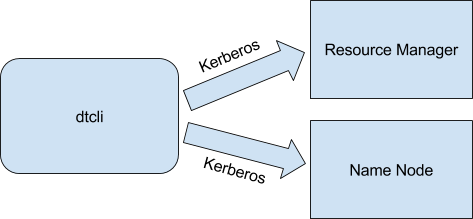
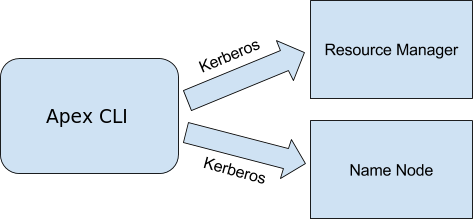
APEXCORE-340 Naming change of apex script. Changed following (dt->apex): 1. Script name changed to apex. 2. Class name changed to ApexCli from DTCli. Similar for test class. 3. Changed console prompt to "apex>" from "dt>" 4. Changed Welcome message to "Apex CLI ..." from "DT CLI ..." 5. Updated docu

Changed region(s): [[0.0888, 0.4932, 0.2664, 0.5753]]

diff --git a/engine/src/test/java/com/datatorrent/stram/cli/ApexCliTest.java b/engine/src/test/java/com/datatorrent/stram/cli/ApexCliTest.java
@@ -40,7 +40,7 @@ import static com.datatorrent.stram.support.StramTestSupport.setEnv;
 /**
  *
  */
-public class DTCliTest
+public class ApexCliTest
 {
 
   // file basename for the created jar
@@ -56,7 +56,7 @@ public class DTCliTest
   private static AppPackage ap;
   private static ConfigPackage cp;
   static TemporaryFolder testFolder = new TemporaryFolder();
-  static DTCli cli = new DTCli();
+  static ApexCli cli = new ApexCli();
 
   static Map<String, String> env = new HashMap<String, String>();
   static String userHome;
@@ -103,7 +103,8 @@ public class DTCliTest
   public void testLaunchAppPackagePropertyPrecedence() throws Exception
   {
     // set launch command options
-    DTCli.LaunchCommandLineInfo commandLineInfo = DTCli.getLaunchCommandLineInfo(new String[]{"-D", "dt.test.1=launch-define", "-apconf", "my-app-conf1.xml", "-conf", "src/test/resources/testAppPackage/local-conf.xml"});
+    ApexCli.LaunchCommandLineInfo commandLineInfo = ApexCli
+        .getLaunchCommandLineInfo(new String[]{"-D", "dt.test.1=launch-define", "-apconf", "my-app-conf1.xml", "-conf", "src/test/resources/testAppPackage/local-conf.xml"});
     // process and look at launch config
 
     DTConfiguration props = cli.getLaunchAppPackageProperties(ap, null, commandLineInfo, null);
@@ -125,9 +126,10 @@ public class DTCliTest
   @Test
   public void testLaunchAppPackageParametersWithConfigPackage() throws Exception
   {
-    DTCli.LaunchCommandLineInfo commandLineInfo = DTCli.getLaunchCommandLineInfo(new String[]{"-exactMatch", "-conf", configFile.getAbsolutePath(), appFile.getAbsolutePath(), "MyFirstApplication"});
+    ApexCli.LaunchCommandLineInfo commandLineInfo = ApexCli
+        .getLaunchCommandLineInfo(new String[]{"-exactMatch", "-conf", configFile.getAbsolutePath(), appFile.getAbsolutePath(), "MyFirstApplication"});
     String[] args = cli.getLaunchAppPackageArgs(ap, cp, commandLineInfo, null);
-    commandLineInfo = DTCli.getLaunchCommandLineInfo(args);
+    commandLineInfo = ApexCli.getLaunchCommandLineInfo(args);
     StringBuilder sb = new StringBuilder();
     for (String f : ap.getClassPath()) {
       if (sb.length() != 0) {
@@ -159,7 +161,8 @@ public class DTCliTest
   public void testLaunchAppPackagePrecedenceWithConfigPackage() throws Exception
   {
     // set launch command options
-    DTCli.LaunchCommandLineInfo commandLineInfo = DTCli.getLaunchCommandLineInfo(new String[]{"-D", "dt.test.1=launch-define", "-apconf", "my-app-conf1.xml", "-conf", configFile.getAbsolutePath()});
+    ApexCli.LaunchCommandLineInfo commandLineInfo = ApexCli
+        .getLaunchCommandLineInfo(new String[]{"-D", "dt.test.1=launch-define", "-apconf", "my-app-conf1.xml", "-conf", configFile.getAbsolutePath()});
     // process and look at launch config
 
     DTConfiguration props = cli.getLaunchAppPackageProperties(ap, cp, commandLineInfo, null);

diff --git a/engine/src/main/java/com/datatorrent/stram/cli/ApexCli.java b/engine/src/main/java/com/datatorrent/stram/cli/ApexCli.java
@@ -148,9 +148,9 @@ import sun.misc.SignalHandler;
  * @since 0.3.2
  */
 @SuppressWarnings("UseOfSystemOutOrSystemErr")
-public class DTCli
+public class ApexCli
 {
-  private static final Logger LOG = LoggerFactory.getLogger(DTCli.class);
+  private static final Logger LOG = LoggerFactory.getLogger(ApexCli.class);
   private Configuration conf;
   private FileSystem fs;
   private StramAgent stramAgent;
@@ -576,7 +576,7 @@ public class DTCli
 
   }
 
-  DTCli()
+  ApexCli()
   {
     //
     // Global command specification starts here
@@ -1050,7 +1050,7 @@ public class DTCli
       }
       if (cmd.hasOption("h")) {
         HelpFormatter formatter = new HelpFormatter();
-        formatter.printHelp(DTCli.class.getSimpleName(), options);
+        formatter.printHelp(ApexCli.class.getSimpleName(), options);
         System.exit(0);
       }
       if (cmd.hasOption("kp")) {
@@ -1094,7 +1094,7 @@ public class DTCli
 
     for (org.apache.log4j.Logger logger : new org.apache.log4j.Logger[]{
         org.apache.log4j.Logger.getRootLogger(),
-        org.apache.log4j.Logger.getLogger(DTCli.class)
+        org.apache.log4j.Logger.getLogger(ApexCli.class)
     }) {
       @SuppressWarnings("unchecked")
       Enumeration<Appender> allAppenders = logger.getAllAppenders();
@@ -1492,7 +1492,7 @@ public class DTCli
   private void printWelcomeMessage()
   {
     VersionInfo v = VersionInfo.APEX_VERSION;
-    System.out.println("DT CLI " + v.getVersion() + " " + v.getDate() + " " + v.getRevision());
+    System.out.println("Apex CLI " + v.getVersion() + " " + v.getDate() + " " + v.getRevision());
   }
 
   private void printHelp(String command, CommandSpec commandSpec, PrintStream os)
@@ -1561,7 +1561,7 @@ public class DTCli
         if (changingLogicalPlan) {
           prompt = "logical-plan-change";
         } else {
-          prompt = "dt";
+          prompt = "apex";
         }
         if (currentApp != null) {
           prompt += " (";
@@ -3925,7 +3925,7 @@ public class DTCli
 
   public static void main(final String[] args) throws Exception
   {
-    final DTCli shell = new DTCli();
+    final ApexCli shell = new ApexCli();
     shell.preImpersonationInit(args);
     String hadoopUserName = System.getenv("HADOOP_USER_NAME");
     if (UserGroupInformation.isSecurityEnabled()

diff --git a/engine/src/main/java/com/datatorrent/stram/cli/package-info.java b/engine/src/main/java/com/datatorrent/stram/cli/package-info.java
@@ -24,7 +24,7 @@
  * via one single point. All webservice calls for streaming data go through to the stram.<br>
  * <br>
  * The com.datatorrent.stram.cli package consists of<br>
- * <b>{@link com.datatorrent.stram.cli.DTCli}</b>: Provides command line interface for a streaming application on hadoop (yarn)<br>
+ * <b>{@link com.datatorrent.stram.cli.ApexCli}</b>: Provides command line interface for a streaming application on hadoop (yarn)<br>
  * <br>
  *
  */

diff --git a/docs/security.md b/docs/security.md
@@ -41,7 +41,7 @@ hdfs-site.xml and can be specified as follows for example for a lifetime of 1 ye
 ###CLI Configuration
 
 The Apex command line interface is used to launch
-applications along with performing various other operations and administrative tasks on the applications.  When Kerberos security is enabled in Hadoop, a Kerberos ticket granting ticket (TGT) or the Kerberos credentials of the user are needed by the CLI program `dtcli` to authenticate with Hadoop for any operation. Kerberos credentials are composed of a principal and either a _keytab_ or a password. For security and operational reasons only keytabs are supported in Hadoop and by extension in Apex platform. When user credentials are specified, all operations including launching
+applications along with performing various other operations and administrative tasks on the applications.  When Kerberos security is enabled in Hadoop, a Kerberos ticket granting ticket (TGT) or the Kerberos credentials of the user are needed by the CLI program `apex` to authenticate with Hadoop for any operation. Kerberos credentials are composed of a principal and either a _keytab_ or a password. For security and operational reasons only keytabs are supported in Hadoop and by extension in Apex platform. When user credentials are specified, all operations including launching
 application are performed as that user.
 
 #### Using kinit
@@ -50,11 +50,11 @@ A Kerberos ticket granting ticket (TGT) can be obtained by using the Kerberos co
 
     kinit -k -t path-tokeytab-file kerberos-principal
 
-If this command is successful, the TGT is obtained, cached and available for other programs. The CLI program `dtcli` can then be started to launch applications and perform other operations.
+If this command is successful, the TGT is obtained, cached and available for other programs. The CLI program `apex` can then be started to launch applications and perform other operations.
 
 #### Using Kerberos credentials
 
-The CLI program `dtcli` can also use the Kerberos credentials directly without requiring a TGT to be obtained separately. This can be useful in batch mode where `dtcli` is not launched manually and also in scenarios where running another program like `kinit` is not feasible.
+The CLI program `apex` can also use the Kerberos credentials directly without requiring a TGT to be obtained separately. This can be useful in batch mode where `apex` is not launched manually and also in scenarios where running another program like `kinit` is not feasible.
 
 The credentials can be specified in the `dt-site.xml` configuration file. If only a single user is launching applications, the global `dt-site.xml` configuration file in the installation folder can be used. In a multi-user environment the users can use the `dt-site.xml` file in their
 home directory. The location of this file will be `$HOME/.dt/dt-site.xml`. If this file does not exist, the user can create a new one.
@@ -83,14 +83,14 @@ In this section we will see how security works for applications built on Apex. W
 
 ###Application Launch
 
-To launch applications in Apache Apex the command line client dtcli can be used. The application artifacts such as binaries and properties are supplied as an application package. The client, during the various steps involved to launch the application needs to communicate with both the Resource Manager and the Name Node. The Resource Manager communication involves the client asking for new resources to run the application master and start the application launch process. The steps along with sample Java code are described in Writing YARN Applications. The Name Node communication includes the application artifacts being copied to HDFS so that they are available across the cluster for launching the different application containers.
+To launch applications in Apache Apex the command line client `apex` can be used. The application artifacts such as binaries and properties are supplied as an application package. The client, during the various steps involved to launch the application needs to communicate with both the Resource Manager and the Name Node. The Resource Manager communication involves the client asking for new resources to run the application master and start the application launch process. The steps along with sample Java code are described in Writing YARN Applications. The Name Node communication includes the application artifacts being copied to HDFS so that they are available across the cluster for launching the different application containers.
 
 In secure mode, the communications with both Resource Manager and Name Node requires authentication and the mechanism is Kerberos. Below is an illustration showing this.
 
-![](images/security/image02.png)		
+![](images/security/image02.png)
 
 
-The client dtcli supports Kerberos authentication and will automatically enable it in a secure environment. To authenticate, some Kerberos configuration namely the Kerberos credentials, are needed by the client. There are two parameters, the Kerberos principal and keytab to use for the client. These can be specified in the dt-site.xml configuration file. The properties are shown below
+The client `apex` supports Kerberos authentication and will automatically enable it in a secure environment. To authenticate, some Kerberos configuration namely the Kerberos credentials, are needed by the client. There are two parameters, the Kerberos principal and keytab to use for the client. These can be specified in the dt-site.xml configuration file. The properties are shown below
 
         <property>
                 <name>dt.authentication.principal</name>
@@ -116,13 +116,13 @@ When the application is completely up and running, there are different component
 
 Every Apache Apex application has a master process akin to any YARN application. In our case it is called STRAM (Streaming Application Master). It is a master process that runs in its own container and manages the different distributed components of the application. Among other tasks it requests Resource Manager for new resources as they are needed and gives back resources that are no longer needed. STRAM also needs to communicate with Name Node from time-to-time to access the persistent HDFS file system. 
 
-In secure mode, STRAM has to authenticate with both Resource Manager and Name Node before it can send any requests and this is achieved using Delegation Tokens. Since STRAM runs as a managed application master, it runs in a Hadoop container. This container could have been allocated on any node based on what resources were available. Since there is no fixed node where STRAM runs, it does not have Kerberos credentials. Unlike launch client dtcli, it cannot authenticate with Hadoop services Resource Manager and Name Node using Kerberos. Instead, Delegation Tokens are used for authentication.
+In secure mode, STRAM has to authenticate with both Resource Manager and Name Node before it can send any requests and this is achieved using Delegation Tokens. Since STRAM runs as a managed application master, it runs in a Hadoop container. This container could have been allocated on any node based on what resources were available. Since there is no fixed node where STRAM runs, it does not have Kerberos credentials. Unlike launch client `apex`, it cannot authenticate with Hadoop services Resource Manager and Name Node using Kerberos. Instead, Delegation Tokens are used for authentication.
 
 #####Delegation Tokens
 
-Delegation tokens are tokens that are dynamically issued by the source and clients use them to authenticate with the source. The source stores the delegation tokens it has issued in a cache and checks the delegation token sent by a client against the cache. If a match is found, the authentication is successful else it fails. This is the second mode of authentication in secure Hadoop after Kerberos. More details can be found in the Hadoop security design document. In this case the delegation tokens are issued by Resource Manager and Name Node. STRAM would use these tokens to authenticate with them. But how does it get them in the first place? This is where the launch client dtcli comes in.
+Delegation tokens are tokens that are dynamically issued by the source and clients use them to authenticate with the source. The source stores the delegation tokens it has issued in a cache and checks the delegation token sent by a client against the cache. If a match is found, the authentication is successful else it fails. This is the second mode of authentication in secure Hadoop after Kerberos. More details can be found in the Hadoop security design document. In this case the delegation tokens are issued by Resource Manager and Name Node. STRAM would use these tokens to authenticate with them. But how does it get them in the first place? This is where the launch client `apex` comes in.
 
-The client dtcli, since it possesses Kerberos credentials as explained in the Application Launch section, is able to authenticate with Resource Manager and Name Node using Kerberos. It then requests for delegation tokens over the Kerberos authenticated connection. The servers return the delegation tokens in the response payload. The client in requesting the resource manager for the start of the application master container for STRAM seeds it with these tokens so that when STRAM starts it has these tokens. It can then use these tokens to authenticate with the Hadoop services.
+The client `apex`, since it possesses Kerberos credentials as explained in the Application Launch section, is able to authenticate with Resource Manager and Name Node using Kerberos. It then requests for delegation tokens over the Kerberos authenticated connection. The servers return the delegation tokens in the response payload. The client in requesting the resource manager for the start of the application master container for STRAM seeds it with these tokens so that when STRAM starts it has these tokens. It can then use these tokens to authenticate with the Hadoop services.
 
 ####Streaming Container
 

diff --git a/docs/application_development.md b/docs/application_development.md
@@ -612,25 +612,25 @@ local mode (in IDE or from command line) or on a Hadoop cluster.
 
 
 
-To start the dtCli run
+To start the Apex CLI run
 
-    <INSTALL_DIR>/bin/dtcli
+    <INSTALL_DIR>/bin/apex
 
 The command line prompt appears.  To start the application in local mode (the actual version number in the file name may differ)
 
-    dt> launch -local <INSTALL_DIR>/yahoo-finance-demo-3.2.0-SNAPSHOT.apa
+    apex> launch -local <INSTALL_DIR>/yahoo-finance-demo-3.2.0-SNAPSHOT.apa
 
 To terminate the application in local mode, enter Ctrl-C
 
 Tu run the application on the Hadoop cluster (the actual version
 number in the file name may differ)
 
-    dt> launch <INSTALL_DIR>/yahoo-finance-demo-3.2.0-SNAPSHOT.apa
+    apex> launch <INSTALL_DIR>/yahoo-finance-demo-3.2.0-SNAPSHOT.apa
 
 
-To stop the application running in Hadoop, terminate it in the dtCli:
+To stop the application running in Hadoop, terminate it in the Apex CLI:
 
-    dt> kill-app
+    apex> kill-app
 
 
 
@@ -1079,7 +1079,7 @@ libraries, version of the platform etc.)
 
 #### Running an application
 
-The platform provides a commandline tool called dtcli for managing applications (launching,
+The platform provides a commandline tool called *apex* for managing applications (launching,
 killing, viewing, etc.). This tool was already discussed above briefly
 in the section entitled Running the Test Application. It will introspect
 the jar file specified with the launch command for applications (classes
@@ -1089,7 +1089,7 @@ application package to the cluster.
 
 
 
-Dtcli can run the application in local mode (i.e. outside a
+Apex CLI can run the application in local mode (i.e. outside a
 cluster). It is recommended to first run the application in local mode
 in the development environment before launching on the Hadoop cluster.
 This way some of the external system integration and correct
@@ -1098,7 +1098,7 @@ environment before testing distributed mode.
 
 
 
-For more details on CLI please refer to the [dtCli Guide](dtcli.md).
+For more details on CLI please refer to the [Apex CLI Guide](apex_cli.md).
 
 Application API
 ----------------------------
@@ -1332,7 +1332,7 @@ an id. This id along with the Hadoop container name uniquely identifies
 the operator in the execution plan of the DAG. The logical names and the
 physical names are required for web service support. Operators can be
 accessed via both names. These same names are used while interacting
-with  dtcli to access an operator.
+with apex cli to access an operator.
 Ideally these names should be self-descriptive. For example in Figure 1,
 the node named “Daily volume” has a physical identifier of 2.
 

diff --git a/docs/apex_cli.md b/docs/apex_cli.md
@@ -1,7 +1,7 @@
 Apache Apex Command Line Interface
 ================================================================================
 
-dtCli, the Apache Apex command line interface, can be used to launch, monitor, and manage Apache Apex applications.  It provides a developer friendly way of interacting with Apache Apex platform.  Another advantage of dtCli is to provide scope, by connecting and executing commands in a context of specific application.  dtCli enables easy integration with existing enterprise toolset for automated application monitoring and management.  Currently the following high level tasks are supported.
+Apex CLI, the Apache Apex command line interface, can be used to launch, monitor, and manage Apache Apex applications.  It provides a developer friendly way of interacting with Apache Apex platform.  Another advantage of Apex CLI is to provide scope, by connecting and executing commands in a context of specific application.  Apex CLI enables easy integration with existing enterprise toolset for automated application monitoring and management.  Currently the following high level tasks are supported.
 
 -   Launch or kill applications
 -   View system metrics including load, throughput, latency, etc.
@@ -12,11 +12,11 @@ dtCli, the Apache Apex command line interface, can be used to launch, monitor, a
 -   Create custom macros
 
 
-## dtcli Commands
+## Apex CLI Commands
 
-dtCli can be launched by running following command
+Apex CLI can be launched by running following command
 
-    dtcli
+    apex
 
 Help on all commands is available via “help” command in the CLI
 
@@ -240,7 +240,7 @@ submit
 An example of defining a custom macro.  The macro updates a running application by inserting a new operator.  It takes three parameters and executes a logical plan changes.
 
 ```
-dt> begin-macro add-console-output
+apex> begin-macro add-console-output
 macro> begin-logical-plan-change
 macro> create-operator $1 com.datatorrent.lib.io.ConsoleOutputOperator
 macro> create-stream stream_$1 $2 $3 $1 in
@@ -251,7 +251,7 @@ macro> submit
 Then execute the `add-console-output` macro like this
 
 ```
-dt> add-console-output xyz opername portname
+apex> add-console-output xyz opername portname
 ```
 
 This macro then expands to run the following command

diff --git a/docs/application_packages.md b/docs/application_packages.md
@@ -484,7 +484,7 @@ There are four top level directories in an Application Package:
 
 ## Examining and Launching Application Packages Through CLI
 
-If you are working with Application Packages in the local filesystem, you can use the Apex Command Line Interface (dtcli).  
+If you are working with Application Packages in the local filesystem, you can use the Apex Command Line Interface (apex).
 
 ### Getting Application Package Meta Information
 
@@ -492,7 +492,7 @@ You can get the meta information about the Application Package using
 this Apex CLI command.
 
 ```
- dt> get-app-package-info <app-package-file>
+ apex> get-app-package-info <app-package-file>
 ```
 
 ### Getting Available Operators In Application Package
@@ -501,7 +501,7 @@ You can get the list of available operators in the Application Package
 using this command.
 
 ```
- dt> get-app-package-operators <app-package-file> <package-prefix>
+ apex> get-app-package-operators <app-package-file> <package-prefix>
  [parent-class]
 ```
 
@@ -510,14 +510,14 @@ using this command.
 You can get the list of properties of any operator in the Application
 Package using this command.
 
- dt> get-app-package-operator-properties <app-package-file> <operator-class>
+ apex> get-app-package-operator-properties <app-package-file> <operator-class>
 
 
 ### Launching an Application Package
 
 You can launch an application within an Application Package.
 ```
-dt> launch [-D property-name=property-value, ...] [-conf config-name]
+apex> launch [-D property-name=property-value, ...] [-conf config-name]
  [-apconf config-file-within-app-package] <app-package-file>
  [matching-app-name]
 ```

diff --git a/docs/apex_development_setup.md b/docs/apex_development_setup.md
@@ -92,7 +92,7 @@ When the run completes successfully, you should see a new directory named `myape
     cd myapexapp
     mvn clean package -DskipTests
 
-The build should create the application package file `myapexapp/target/myapexapp-1.0-SNAPSHOT.apa`. This application package can then be used to launch example application via **dtCli**, or other visual management tools.  When running, this application will generate a stream of random numbers and print them out, each prefixed by the string `hello world:`.
+The build should create the application package file `myapexapp/target/myapexapp-1.0-SNAPSHOT.apa`. This application package can then be used to launch example application via **apex** CLI, or other visual management tools.  When running, this application will generate a stream of random numbers and print them out, each prefixed by the string `hello world:`.
 
 Running Unit Tests
 ----
